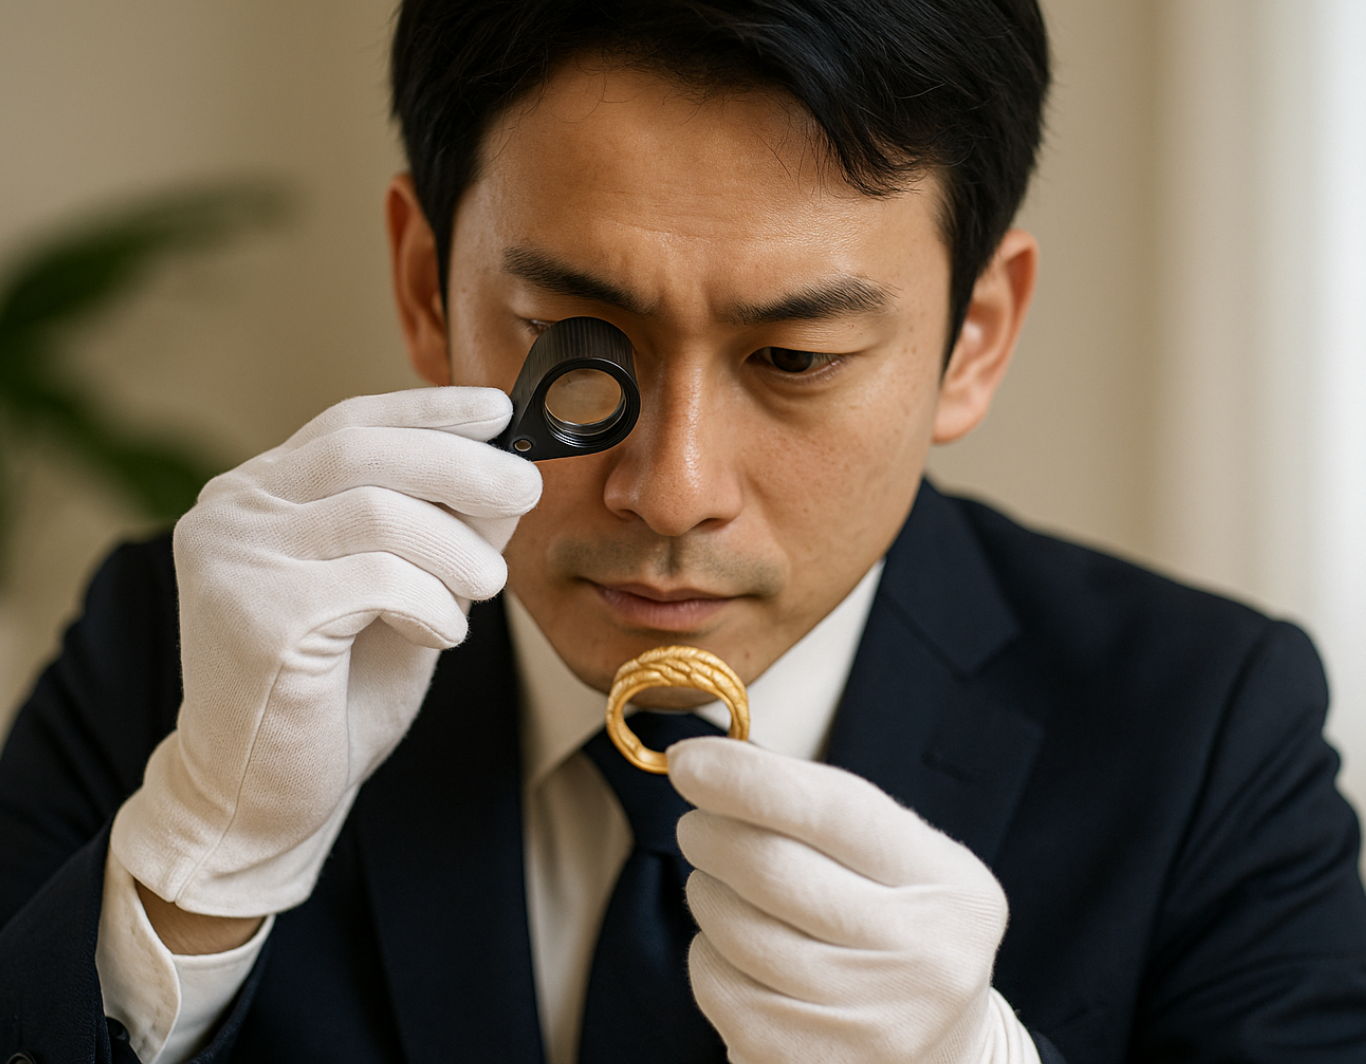
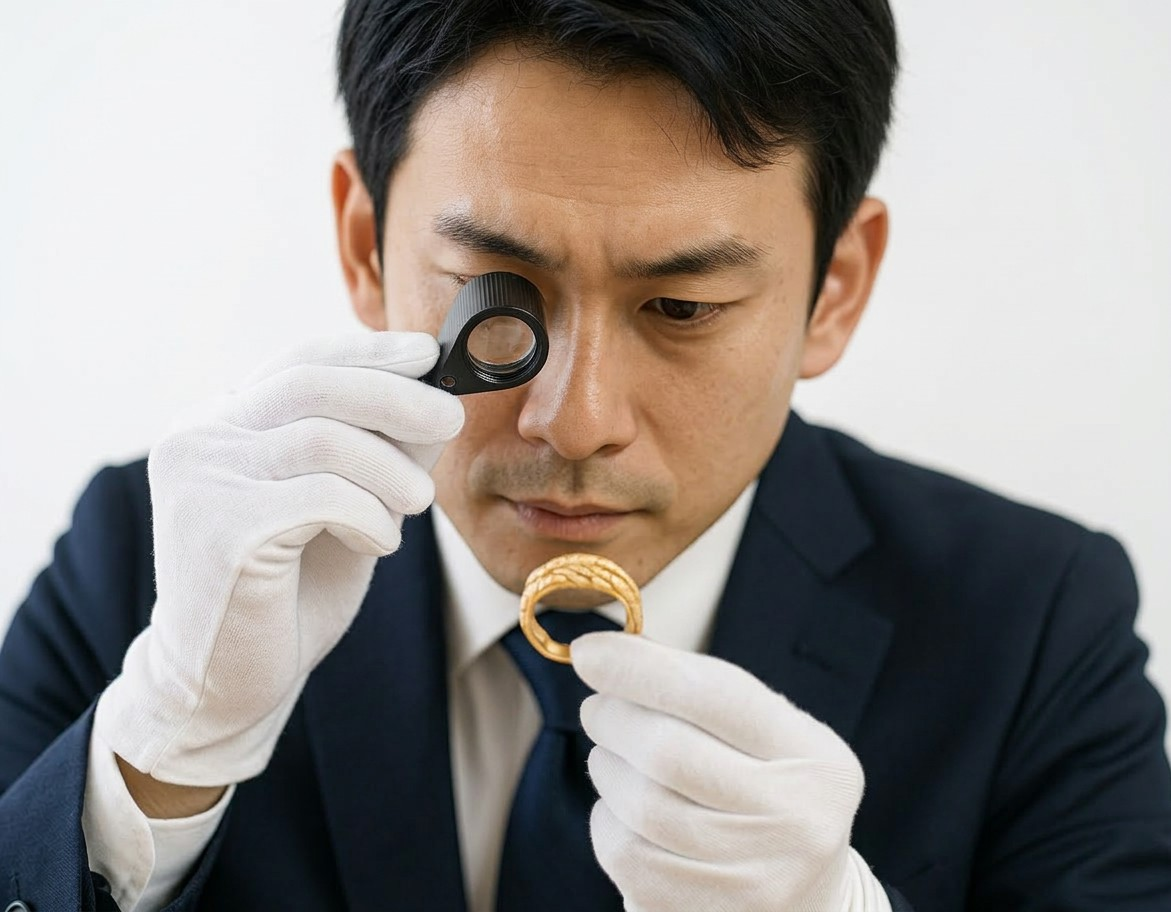
220260324

diff --git a/index.html b/index.html
@@ -829,14 +829,13 @@
 						<img src="img/customer1.jpg" class="review-title__img">
 						<div class="review-tilte__text">
 							<p class="review-location">80代男性</p>
-							<p class="review-stars">タンス<br> ★★★★☆</p>
+							<p class="review-stars">金の買取<br> ★★★★☆</p>
 						</div>
 					</div>
 					<p class="review-text">
-						大型のタンスの買取依頼させていただき、
-						想像より高い値段で、送料や査定料も一切かからず、とても大満足です。
-						最初は本当に買い取ってくれるのか不安でしたが、当日来ていただいたスタッフさんが丁寧に説明と、査定してくれました。
-						また機会がありましたら、よろしくお願いいたします。
+						昔購入した金のインゴットを売却しようと考えていたところ、広告を見て依頼しました。
+						相場を丁寧に説明してくれたので、安心して取引ができました。
+						査定額にも満足しており、また機会があればお願いしたいです！
 					</p>
 				</div>
 				<div class="review-card">
@@ -844,12 +843,12 @@
 						<img src="img/customer2.jpg" class="review-title__img">
 						<div class="review-tilte__text">
 							<p class="review-location">70代女性</p>
-							<p class="review-stars">ブラウン管<br> ★★★★★</p>
+							<p class="review-stars">アクセサリー類整理<br> ★★★★★</p>
 						</div>
 					</div>
 					<p class="review-text">
-						ずっと居間に置いてあったブラウン管のテレビを処分しようと思っていたのですが、処分方法がわからず、置きっぱなしになってあったものを買い取ってもらえて、大満足です。
-						電話した次の日に、スタッフさんが来てくれてその場で現金買取していただけました。
+						使わなくなったネックレスや指輪を整理しようと思い相談しました。
+						査定もスムーズで納得の価格で買い取ってもらえました！古いデザインのものでも知ったり価格を評価してもらえたのが嬉しかったで
 					</p>
 				</div>
 				<!--				<div class="review-card">-->
